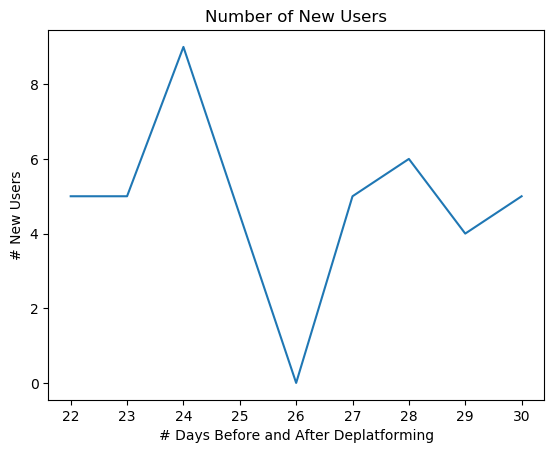
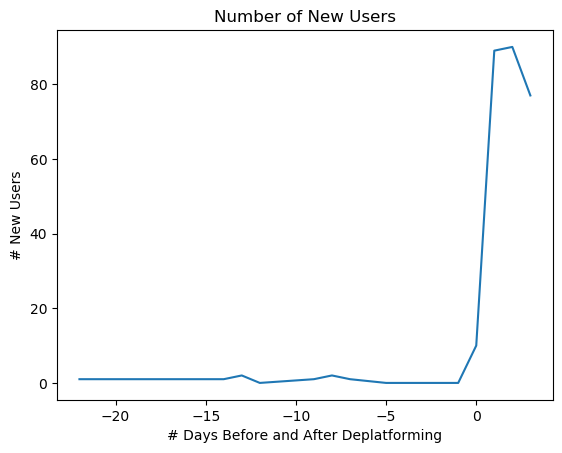
updated code and added comments

diff --git a/src/eda.py b/src/eda.py
@@ -3,10 +3,13 @@ import datetime
 import seaborn as sns
 import matplotlib.pyplot as plt
 
-test_date = datetime.datetime(2021, 11, 12)
+# test_date = datetime.datetime(2021, 11, 12)
 milo_deplatform_date = datetime.datetime(2016, 7, 19)
 
 def convert_dates(data):
+    '''
+    converts dates to datetime object
+    '''
     # convert to datetime object
     data['created_at'] = pd.to_datetime(data['created_at'])
     # don't localize time
@@ -18,8 +21,11 @@ def convert_dates(data):
 
     return data
 
-def count_days(date):
-    return date - milo_deplatform_date
+def count_days(date, deplatform_date):
+    '''
+    helper function to count number of days since deplatform date
+    '''
+    return date - deplatform_date
 
 def user_activity_levels(data):
     '''
@@ -33,7 +39,8 @@ def user_activity_levels(data):
     df = num_tweets.reset_index().rename(
         columns={"created_at": "Date", "text": "# Tweets"})
 
-    df['Date'] = df['Date'].apply(count_days).dt.days
+    df['Date'] = df['Date'].apply(
+        lambda x: count_days(x, milo_deplatform_date)).dt.days
 
     # convert df to csv
     df.to_csv(".//data/out/userActivityLevels.csv")
@@ -58,7 +65,8 @@ def num_unique_users(data):
     df = pd.DataFrame(data={
         "Date": date_ix, "# Unique Users": numUniqueUsers_ix})
 
-    df['Date'] = df['Date'].apply(count_days).dt.days
+    df['Date'] = df['Date'].apply(
+        lambda x: count_days(x, milo_deplatform_date)).dt.days
 
     # convert df to csv
     df.to_csv(".//data/out/uniqueUsers.csv")
@@ -96,12 +104,15 @@ def new_users_count(data):
     newUsers_df = pd.DataFrame(data={
         'Date': date_ix, '# New Users': numNewUsers_ix})
 
-    newUsers_df['Date'] = newUsers_df['Date'].apply(count_days).dt.days
+    newUsers_df['Date'] = newUsers_df['Date'].apply(
+        lambda x: count_days(x, milo_deplatform_date)).dt.days
 
     # convert df to csv
     newUsers_df.to_csv(".//data/out/newUsers.csv")
 
     return newUsers_df
+
+# functions used to create line charts
 
 def create_newUsers_graph(df):
     '''
@@ -130,9 +141,11 @@ def create_userActivity_graph(df):
     plt.title("Volume of Tweets")
     plt.savefig('.//data/out/userActivityPlot.png', bbox_inches='tight')
 
+# main function 
+
 def calculate_stats(data):
     df = convert_dates(data)
-    
+
     # create csvs out of data
     userActivity_df = user_activity_levels(df)
     uniqueUsers_df = num_unique_users(df)

diff --git a/src/etl.py b/src/etl.py
@@ -2,16 +2,24 @@ import json
 import pandas as pd
 
 def import_test_data(test_dir, file_dir):
+    '''
+    used for test target
+    '''
     with open(test_dir) as f:
         json_file = json.load(f)
     df = pd.DataFrame(json_file['data'])
     return df
 
 def import_data(test_dir, file_dir):
-    with open(file_dir) as f:
-        json_file = json.load(f)
+    '''
+    used for data target
+    '''
+    # if data file is json format 
+    # with open(file_dir) as f:
+    #     json_file = json.load(f)
 
-    df = pd.DataFrame(json_file['data'])
+    # df = pd.DataFrame(json_file['data'])
 
-    # df = pd.read_csv(file_dir)
+    # if data file is csv format
+    df = pd.read_csv(file_dir)
     return df
